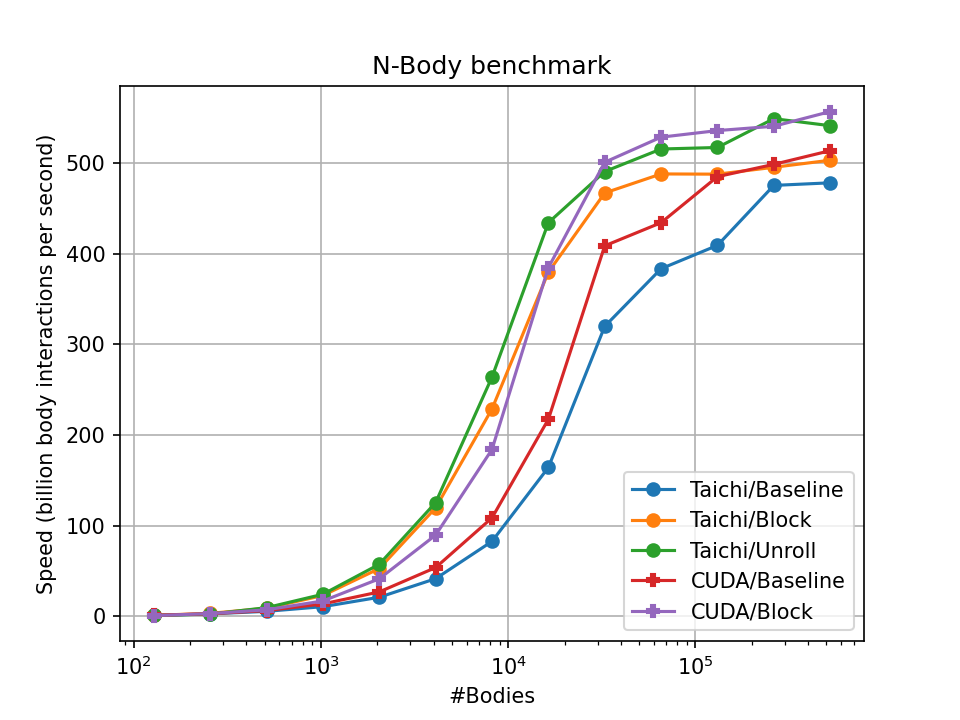
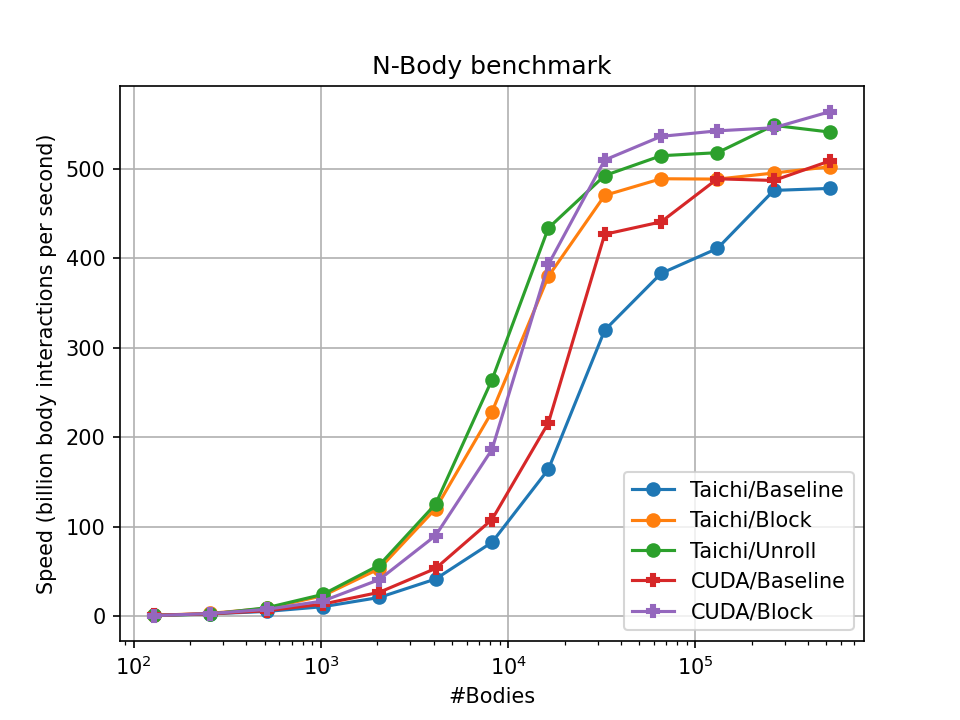
update n-body scripts

Changed region(s): [[0.0625, 0.1528, 0.9062, 0.8556], [0.2812, 0.825, 0.3125, 0.8556]]

diff --git a/n-body/plot_benchmark.py b/n-body/plot_benchmark.py
@@ -5,10 +5,8 @@ import matplotlib.pyplot as plt
 import sys
 import os
 
-
-cuda_sample_results = {'cuda_baseline': [{'nbodies': 128, 'rate': 1.053, 'time': 0.016}, {'nbodies': 256, 'rate': 2.706, 'time': 0.024}, {'nbodies': 512, 'rate': 6.258, 'time': 0.042}, {'nbodies': 1024, 'rate': 13.54, 'time': 0.077}, {'nbodies': 2048, 'rate': 26.753, 'time': 0.157}, {'nbodies': 4096, 'rate': 53.525, 'time': 0.313}, {'nbodies': 8192, 'rate': 108.26, 'time': 0.62}, {'nbodies': 16384, 'rate': 217.161, 'time': 1.236}, {'nbodies': 32768, 'rate': 408.75, 'time': 2.627}, {'nbodies': 65536, 'rate': 433.684, 'time': 9.903}, {'nbodies': 131072, 'rate': 487.461, 'time': 35.244}, {'nbodies': 262144, 'rate': 501.46, 'time': 137.039}, {'nbodies': 524288, 'rate': 516.159, 'time': 532.545}], 'cuda_block': [{'nbodies': 128, 'rate': 0.702, 'time': 0.023}, {'nbodies': 256, 'rate': 2.756, 'time': 0.024}, {'nbodies': 512, 'rate': 6.741, 'time': 0.039}, {'nbodies': 1024, 'rate': 16.852, 'time': 0.062}, {'nbodies': 2048, 'rate': 41.346, 'time': 0.101}, {'nbodies': 4096, 'rate': 89.931, 'time': 0.187}, {'nbodies': 8192, 'rate': 188.626, 'time': 0.356}, {'nbodies': 16384, 'rate': 383.358, 'time': 0.7}, {'nbodies': 32768, 'rate': 503.841, 'time': 2.131}, {'nbodies': 65536, 'rate': 532.126, 'time': 8.071}, {'nbodies': 131072, 'rate': 536.981, 'time': 31.993}, {'nbodies': 262144, 'rate': 545.344, 'time': 126.011}, {'nbodies': 524288, 'rate': 561.48, 'time': 489.56}], 'cuda_best': [{'nbodies': 128, 'rate': 1.076, 'time': 0.015}, {'nbodies': 256, 'rate': 4.068, 'time': 0.016}, {'nbodies': 512, 'rate': 10.082, 'time': 0.026}, {'nbodies': 1024, 'rate': 27.354, 'time': 0.038}, {'nbodies': 2048, 'rate': 60.983, 'time': 0.069}, {'nbodies': 4096, 'rate': 129.276, 'time': 0.13}, {'nbodies': 8192, 'rate': 269.273, 'time': 0.249}, {'nbodies': 16384, 'rate': 553.983, 'time': 0.485}, {'nbodies': 32768, 'rate': 691.844, 'time': 1.552}, {'nbodies': 65536, 'rate': 753.474, 'time': 5.7}, {'nbodies': 131072, 'rate': 758.679, 'time': 22.644}, {'nbodies': 262144, 'rate': 763.257, 'time': 90.035}, {'nbodies': 524288, 'rate': 785.431, 'time': 349.971}]}
-
-taichi_sample_results = {'taichi_baseline': [{'nbodies': 128, 'time': 0.017808408153300384, 'rate': 0.9200148524765026}, {'nbodies': 256, 'time': 0.022995228670081313, 'rate': 2.8499825307355056}, {'nbodies': 512, 'time': 0.04559633683185188, 'rate': 5.74923378092242}, {'nbodies': 1024, 'time': 0.09497817681760204, 'rate': 11.040178229718032}, {'nbodies': 2048, 'time': 0.19198047871492346, 'rate': 21.847554647617194}, {'nbodies': 4096, 'time': 0.3837176731654576, 'rate': 43.72281282120078}, {'nbodies': 8192, 'time': 0.7712500435965401, 'rate': 87.0131088577368}, {'nbodies': 16384, 'time': 1.5502462581712373, 'rate': 173.15665468314847}, {'nbodies': 32768, 'time': 3.1822457605478713, 'rate': 337.41637346549226}, {'nbodies': 65536, 'time': 10.529143469674247, 'rate': 407.9123157900021}, {'nbodies': 131072, 'time': 39.45852785694356, 'rate': 435.3905256244079}, {'nbodies': 262144, 'time': 135.64622158906897, 'rate': 506.60811581011814}, {'nbodies': 524288, 'time': 542.3727570747842, 'rate': 506.80625705929197}], 'taichi_block': [{'nbodies': 128, 'time': 0.017171003380600288, 'rate': 0.9541667214689713}, {'nbodies': 256, 'time': 0.020212056685467154, 'rate': 3.242421145945113}, {'nbodies': 512, 'time': 0.028975155888771524, 'rate': 9.047198952313014}, {'nbodies': 1024, 'time': 0.04869577836017219, 'rate': 21.53320134333493}, {'nbodies': 2048, 'time': 0.07942258095254703, 'rate': 52.809968521496295}, {'nbodies': 4096, 'time': 0.13922671882473692, 'rate': 120.50284702263005}, {'nbodies': 8192, 'time': 0.29348840518873565, 'rate': 228.6593364969353}, {'nbodies': 16384, 'time': 0.708687062166175, 'rate': 378.7785474444804}, {'nbodies': 32768, 'time': 2.3187325925243143, 'rate': 463.0727266532528}, {'nbodies': 65536, 'time': 8.784848816540777, 'rate': 488.9062277216554}, {'nbodies': 131072, 'time': 35.021874369407186, 'rate': 490.5468223313372}, {'nbodies': 262144, 'time': 137.99058661168937, 'rate': 498.00119285947494}, {'nbodies': 524288, 'time': 545.8203286540752, 'rate': 503.6051105348432}], 'taichi_unroll': [{'nbodies': 128, 'time': 0.020689434475368924, 'rate': 0.7919017805685018}, {'nbodies': 256, 'time': 0.02948443094889323, 'rate': 2.2227324011644205}, {'nbodies': 512, 'time': 0.030491087171766493, 'rate': 8.597397610759339}, {'nbodies': 1024, 'time': 0.04863739013671875, 'rate': 21.55905152501961}, {'nbodies': 2048, 'time': 0.07565816243489583, 'rate': 55.43756106433614}, {'nbodies': 4096, 'time': 0.13568666246202257, 'rate': 123.64675860971808}, {'nbodies': 8192, 'time': 0.2568562825520833, 'rate': 261.27008976855444}, {'nbodies': 16384, 'time': 0.621742672390408, 'rate': 431.7468752272524}, {'nbodies': 32768, 'time': 2.151118384467231, 'rate': 499.15515192155937}, {'nbodies': 65536, 'time': 8.204380671183268, 'rate': 523.4968327451538}, {'nbodies': 131072, 'time': 32.951858308580185, 'rate': 521.3626807665233}, {'nbodies': 262144, 'time': 124.52809015909831, 'rate': 551.8391605315983}, {'nbodies': 524288, 'time': 508.0065197414822, 'rate': 541.0912975760266}]}
+from misc import cuda_sample_results
+from misc import taichi_sample_results
 
 def run_benchmarks():
     return benchmark_cuda(), benchmark_taichi()

diff --git a/n-body/misc.py b/n-body/misc.py
@@ -1,0 +1,3 @@
+cuda_sample_results = {'cuda_baseline': [{'nbodies': 128, 'rate': 1.053, 'time': 0.016}, {'nbodies': 256, 'rate': 2.706, 'time': 0.024}, {'nbodies': 512, 'rate': 6.258, 'time': 0.042}, {'nbodies': 1024, 'rate': 13.54, 'time': 0.077}, {'nbodies': 2048, 'rate': 26.753, 'time': 0.157}, {'nbodies': 4096, 'rate': 53.525, 'time': 0.313}, {'nbodies': 8192, 'rate': 108.26, 'time': 0.62}, {'nbodies': 16384, 'rate': 217.161, 'time': 1.236}, {'nbodies': 32768, 'rate': 408.75, 'time': 2.627}, {'nbodies': 65536, 'rate': 433.684, 'time': 9.903}, {'nbodies': 131072, 'rate': 487.461, 'time': 35.244}, {'nbodies': 262144, 'rate': 501.46, 'time': 137.039}, {'nbodies': 524288, 'rate': 516.159, 'time': 532.545}], 'cuda_block': [{'nbodies': 128, 'rate': 0.702, 'time': 0.023}, {'nbodies': 256, 'rate': 2.756, 'time': 0.024}, {'nbodies': 512, 'rate': 6.741, 'time': 0.039}, {'nbodies': 1024, 'rate': 16.852, 'time': 0.062}, {'nbodies': 2048, 'rate': 41.346, 'time': 0.101}, {'nbodies': 4096, 'rate': 89.931, 'time': 0.187}, {'nbodies': 8192, 'rate': 188.626, 'time': 0.356}, {'nbodies': 16384, 'rate': 383.358, 'time': 0.7}, {'nbodies': 32768, 'rate': 503.841, 'time': 2.131}, {'nbodies': 65536, 'rate': 532.126, 'time': 8.071}, {'nbodies': 131072, 'rate': 536.981, 'time': 31.993}, {'nbodies': 262144, 'rate': 545.344, 'time': 126.011}, {'nbodies': 524288, 'rate': 561.48, 'time': 489.56}], 'cuda_best': [{'nbodies': 128, 'rate': 1.076, 'time': 0.015}, {'nbodies': 256, 'rate': 4.068, 'time': 0.016}, {'nbodies': 512, 'rate': 10.082, 'time': 0.026}, {'nbodies': 1024, 'rate': 27.354, 'time': 0.038}, {'nbodies': 2048, 'rate': 60.983, 'time': 0.069}, {'nbodies': 4096, 'rate': 129.276, 'time': 0.13}, {'nbodies': 8192, 'rate': 269.273, 'time': 0.249}, {'nbodies': 16384, 'rate': 553.983, 'time': 0.485}, {'nbodies': 32768, 'rate': 691.844, 'time': 1.552}, {'nbodies': 65536, 'rate': 753.474, 'time': 5.7}, {'nbodies': 131072, 'rate': 758.679, 'time': 22.644}, {'nbodies': 262144, 'rate': 763.257, 'time': 90.035}, {'nbodies': 524288, 'rate': 785.431, 'time': 349.971}]}
+
+taichi_sample_results = {'taichi_baseline': [{'nbodies': 128, 'time': 0.017808408153300384, 'rate': 0.9200148524765026}, {'nbodies': 256, 'time': 0.022995228670081313, 'rate': 2.8499825307355056}, {'nbodies': 512, 'time': 0.04559633683185188, 'rate': 5.74923378092242}, {'nbodies': 1024, 'time': 0.09497817681760204, 'rate': 11.040178229718032}, {'nbodies': 2048, 'time': 0.19198047871492346, 'rate': 21.847554647617194}, {'nbodies': 4096, 'time': 0.3837176731654576, 'rate': 43.72281282120078}, {'nbodies': 8192, 'time': 0.7712500435965401, 'rate': 87.0131088577368}, {'nbodies': 16384, 'time': 1.5502462581712373, 'rate': 173.15665468314847}, {'nbodies': 32768, 'time': 3.1822457605478713, 'rate': 337.41637346549226}, {'nbodies': 65536, 'time': 10.529143469674247, 'rate': 407.9123157900021}, {'nbodies': 131072, 'time': 39.45852785694356, 'rate': 435.3905256244079}, {'nbodies': 262144, 'time': 135.64622158906897, 'rate': 506.60811581011814}, {'nbodies': 524288, 'time': 542.3727570747842, 'rate': 506.80625705929197}], 'taichi_block': [{'nbodies': 128, 'time': 0.017171003380600288, 'rate': 0.9541667214689713}, {'nbodies': 256, 'time': 0.020212056685467154, 'rate': 3.242421145945113}, {'nbodies': 512, 'time': 0.028975155888771524, 'rate': 9.047198952313014}, {'nbodies': 1024, 'time': 0.04869577836017219, 'rate': 21.53320134333493}, {'nbodies': 2048, 'time': 0.07942258095254703, 'rate': 52.809968521496295}, {'nbodies': 4096, 'time': 0.13922671882473692, 'rate': 120.50284702263005}, {'nbodies': 8192, 'time': 0.29348840518873565, 'rate': 228.6593364969353}, {'nbodies': 16384, 'time': 0.708687062166175, 'rate': 378.7785474444804}, {'nbodies': 32768, 'time': 2.3187325925243143, 'rate': 463.0727266532528}, {'nbodies': 65536, 'time': 8.784848816540777, 'rate': 488.9062277216554}, {'nbodies': 131072, 'time': 35.021874369407186, 'rate': 490.5468223313372}, {'nbodies': 262144, 'time': 137.99058661168937, 'rate': 498.00119285947494}, {'nbodies': 524288, 'time': 545.8203286540752, 'rate': 503.6051105348432}], 'taichi_unroll': [{'nbodies': 128, 'time': 0.020689434475368924, 'rate': 0.7919017805685018}, {'nbodies': 256, 'time': 0.02948443094889323, 'rate': 2.2227324011644205}, {'nbodies': 512, 'time': 0.030491087171766493, 'rate': 8.597397610759339}, {'nbodies': 1024, 'time': 0.04863739013671875, 'rate': 21.55905152501961}, {'nbodies': 2048, 'time': 0.07565816243489583, 'rate': 55.43756106433614}, {'nbodies': 4096, 'time': 0.13568666246202257, 'rate': 123.64675860971808}, {'nbodies': 8192, 'time': 0.2568562825520833, 'rate': 261.27008976855444}, {'nbodies': 16384, 'time': 0.621742672390408, 'rate': 431.7468752272524}, {'nbodies': 32768, 'time': 2.151118384467231, 'rate': 499.15515192155937}, {'nbodies': 65536, 'time': 8.204380671183268, 'rate': 523.4968327451538}, {'nbodies': 131072, 'time': 32.951858308580185, 'rate': 521.3626807665233}, {'nbodies': 262144, 'time': 124.52809015909831, 'rate': 551.8391605315983}, {'nbodies': 524288, 'time': 508.0065197414822, 'rate': 541.0912975760266}]}
